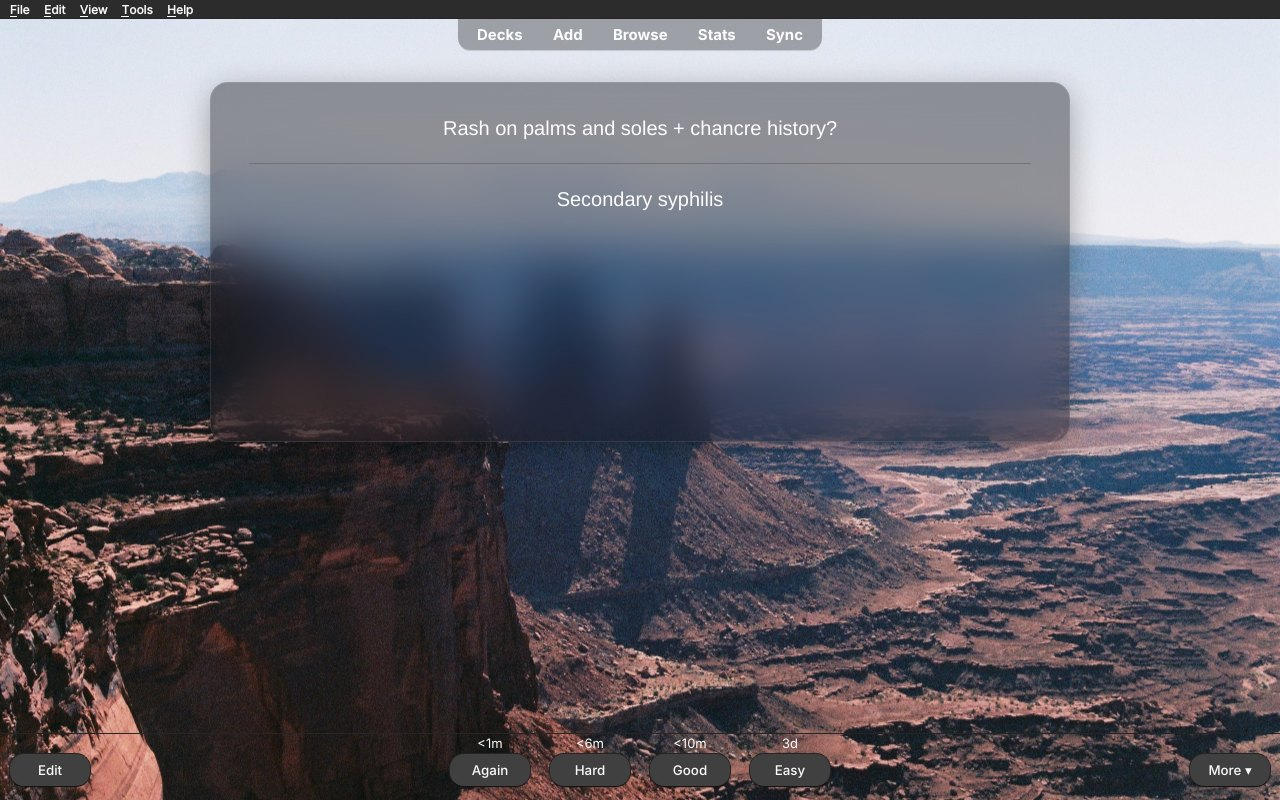
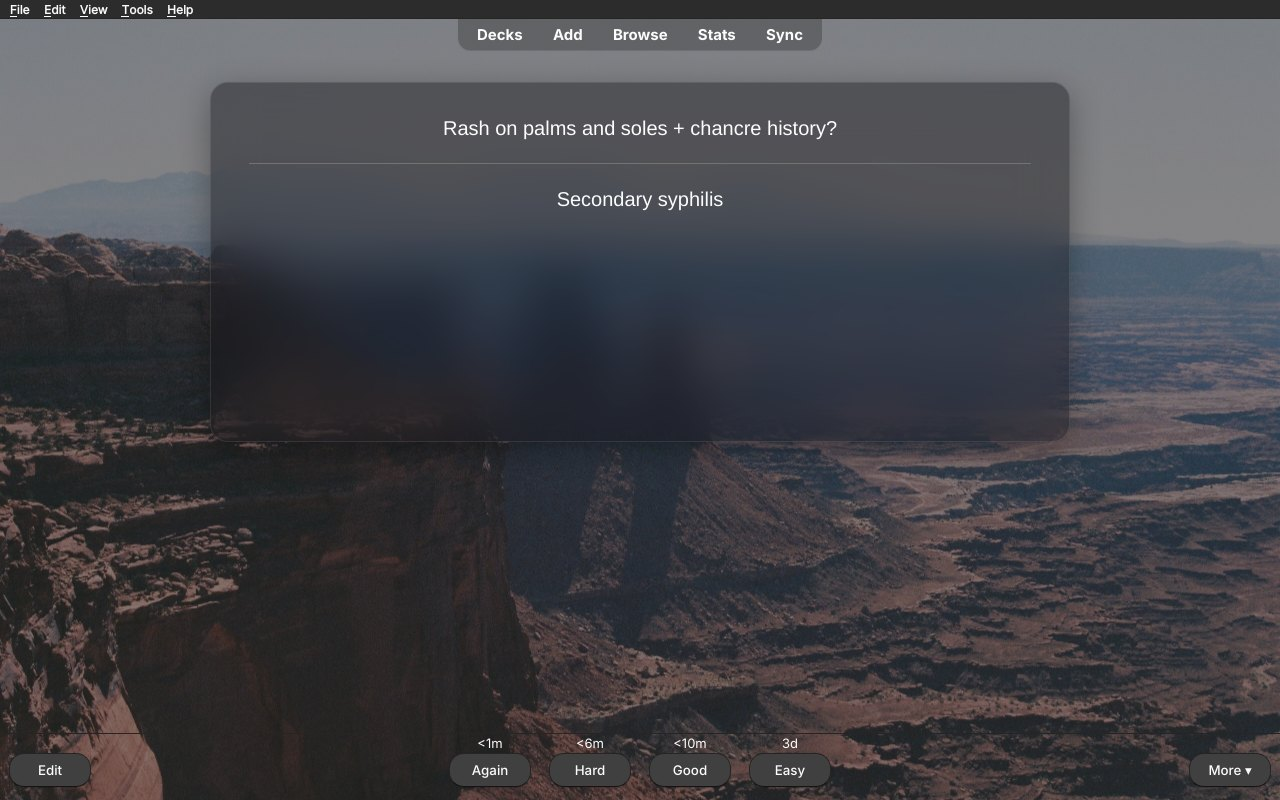
Edited sea photo, darker dark-mode demo, photo credit, Card Read Aloud note
Claude-Session: https://claude.ai/code/session_012cZ2edc3Z83QWC5adsUwSL

diff --git a/docs/ankiweb_description.html b/docs/ankiweb_description.html
@@ -28,3 +28,8 @@
 <b>Support, source and bug reports:</b> <a href="https://github.com/aidansun525/liquid-glass-anki-theme">github.com/aidansun525/liquid-glass-anki-theme</a>
 
 <i>License: AGPL-3.0. The background code is based on "Custom Background Image and Gear Icon" by ijgnd and The AnKing. Downloaded wallpapers belong to their creators and are for personal use.</i>
+
+<b>🎧 Also by me: Card Read Aloud</b>
+Want your cards read to you? <a href="https://github.com/aidansun525/Anki-Card-read-aloud">Card Read Aloud</a> reads your reviews aloud in a natural, gentle voice (Kokoro). It runs offline on your own computer and is made for med students, with 1,400+ medical pronunciations.
+
+<i>📷 Photo credit for the built-in wallpapers: Aidan S.</i>

diff --git a/README.md b/README.md
@@ -79,4 +79,12 @@ This writes `dist/frosted_glass_theme.ankiaddon` from `src/frosted_glass_theme`.
 - The background code is based on [Custom Background Image and Gear Icon](https://github.com/AnKing-VIP/Custom-background-image-and-gear-icon) by ijgnd and The AnKing (AGPL-3.0).
 - Gear icons are from [Noto Color Emoji](https://github.com/googlefonts/noto-emoji) (Apache 2.0).
 - Downloaded wallpapers come from [Wallhaven](https://wallhaven.cc) and [Konachan](https://konachan.net). They belong to their creators and are downloaded to your own computer for personal use as wallpapers.
-- The three built-in wallpapers are film photographs by AidanS, included with permission for use with this add-on. The piano notes were made for this add-on.
+- The piano notes were made for this add-on.
+
+## Also by me: Card Read Aloud 🎧
+
+Want your cards read to you? **[Card Read Aloud](https://github.com/aidansun525/Anki-Card-read-aloud)** reads your reviews aloud in a natural, gentle voice (Kokoro). It runs offline on your own computer and is made for med students: it says "I V", not "Roman four", and knows 1,400+ medical pronunciations.
+
+---
+
+<sub>📷 Photo credit for the built-in wallpapers: **Aidan S.**</sub>

diff --git a/CHANGELOG.md b/CHANGELOG.md
@@ -4,7 +4,7 @@
 
 - A wallpaper behind every screen, lined up seamlessly across the top bar, main screen and bottom bar.
 - Daily wallpapers: professional photos (Nature, Architecture, Landscape, or your own tags) or safe-rated anime art from Konachan and Wallhaven.
-- Three built-in wallpapers (film photographs by AidanS).
+- Three built-in wallpapers (film photographs by Aidan S.).
 - A frosted-glass review card with adjustable opacity, blur, width, height and corners.
 - A soft glow and piano note on each answer, with adjustable volume.
 - A card text size slider.
